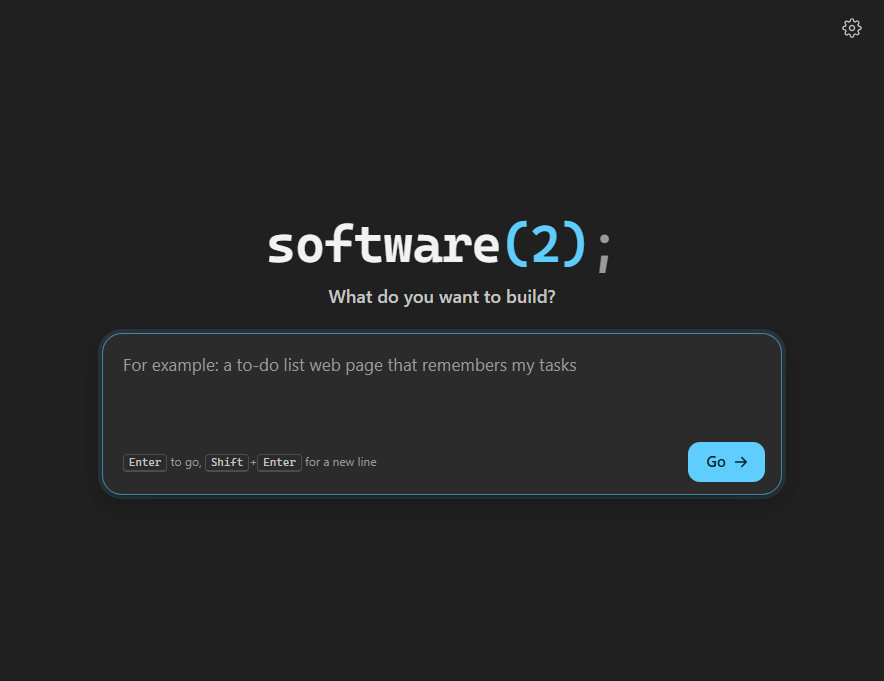
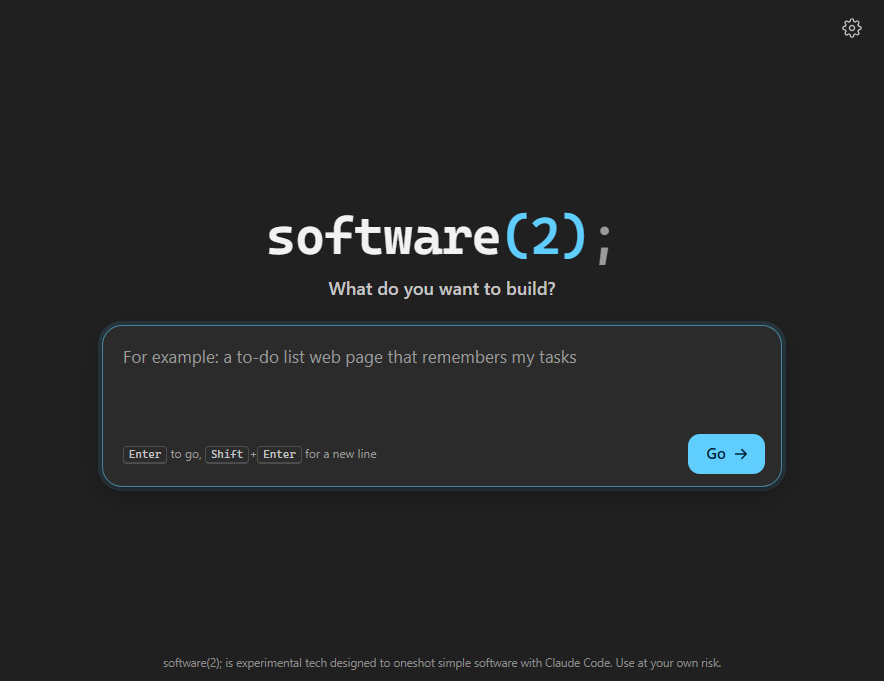
Faded disclaimer line at the bottom of every screen
The footer is the last item in the body's flex column, so the scrolling page
sits above it and it never covers the cards or the status line; it wraps to two
lines in a narrow window. --text-faint is about 4.6:1 (light) and 4.8:1 (dark)
on the background. Shots mode adds narrow-failed and narrow-empty at the
minimum window size. README screenshots refreshed.

diff --git a/src/renderer/styles.css b/src/renderer/styles.css
@@ -15,6 +15,7 @@
   --text: #1b1b1b;
   --text-2: #5f5f5f;
   --text-3: #8a8a8a;
+  --text-faint: #6e6e6e; /* 4.6:1 on --bg */
   --border: rgba(0, 0, 0, 0.08);
   --border-strong: rgba(0, 0, 0, 0.16);
   --accent: #005fb8;
@@ -45,6 +46,7 @@
     --text: #f2f2f2;
     --text-2: #c5c5c5;
     --text-3: #9a9a9a;
+    --text-faint: #8c8c8c; /* 4.8:1 on --bg */
     --border: rgba(255, 255, 255, 0.08);
     --border-strong: rgba(255, 255, 255, 0.16);
     --accent: #60cdff;
@@ -150,7 +152,7 @@ main {
   overflow-y: auto;
   display: flex;
   justify-content: center;
-  padding: 0 24px 40px;
+  padding: 0 24px 24px;
 }
 .stage {
   width: min(680px, 100%);
@@ -219,6 +221,20 @@ main {
 }
 .go { display: inline-flex; align-items: center; gap: 6px; padding: 8px 14px 8px 18px; border-radius: 12px; font-size: 15px; }
 .go svg { width: 18px; height: 18px; stroke-width: 2; }
+
+/* The disclaimer: the last item in the body's column, so it never covers the page. */
+
+.disclaimer {
+  flex: none;
+  padding: 6px 24px 10px;
+  text-align: center;
+  font-size: 11.5px;
+  line-height: 1.4;
+  color: var(--text-faint);
+  text-wrap: balance;
+  user-select: none;
+  cursor: default;
+}
 
 /* The live status line */
 

diff --git a/src/main/demo.ts b/src/main/demo.ts
@@ -125,6 +125,14 @@ export async function takeShots(win: BrowserWindow): Promise<void> {
       await until(`!document.getElementById('result').hidden`);
       delete process.env.FAKE_CLAUDE_MODE;
       await shot('failed');
+
+      // The smallest window: the disclaimer wraps and stays clear of the card.
+      const [width, height] = win.getSize();
+      win.setSize(600, 480);
+      await shot('narrow-failed');
+      await click('#result-close');
+      await shot('narrow-empty');
+      win.setSize(width, height);
     }
   } catch (err) {
     console.error(`Screenshots failed: ${(err as Error).message}`);

diff --git a/src/renderer/index.html b/src/renderer/index.html
@@ -68,6 +68,8 @@
     </div>
   </main>
 
+  <footer class="disclaimer">software(2); is experimental tech designed to oneshot simple software with Claude Code. Use at your own risk.</footer>
+
   <dialog id="settings-dialog" class="sheet" aria-labelledby="settings-title">
     <div class="sheet-head">
       <h2 id="settings-title" tabindex="-1" autofocus>Settings</h2>

diff --git a/CLAUDE.md b/CLAUDE.md
@@ -25,3 +25,4 @@ Electron + TypeScript, plain HTML/CSS renderer, Windows only. See README.md for 
 - The window has no log view: the status line sentence is `ParsedLine.activity` (`src/main/stream.ts`) sent via `onActivity`, and the full log goes to `userData\logs\run-*.log` (`src/main/runlog.ts`). The renderer maps flow.ts's `setStatus` words in `onStatus()`, so rewording those needs the renderer too.
 - Check UI changes visually with `SOFTWARE2_SHOTS=<dir>` (demo mode: fake CLI, temp userData, every state in light and dark), then Read the PNGs. In Electron, `rmSync` fails on git's read-only object files; clear the read-only bit first.
 - No build history, on purpose (the user removed it). The result card's Open folder/README/log act on `lastBuild` in main.ts; the page never passes a path.
+- The disclaimer `<footer class="disclaimer">` is the body column's last flex item, not `position: fixed`, so `main` scrolls above it and nothing overlaps; its `--text-faint` is picked for ~4.5:1 on `--bg`, so recheck it if the background changes. Shots mode also takes `narrow-*` shots at the 600x480 minimum.
